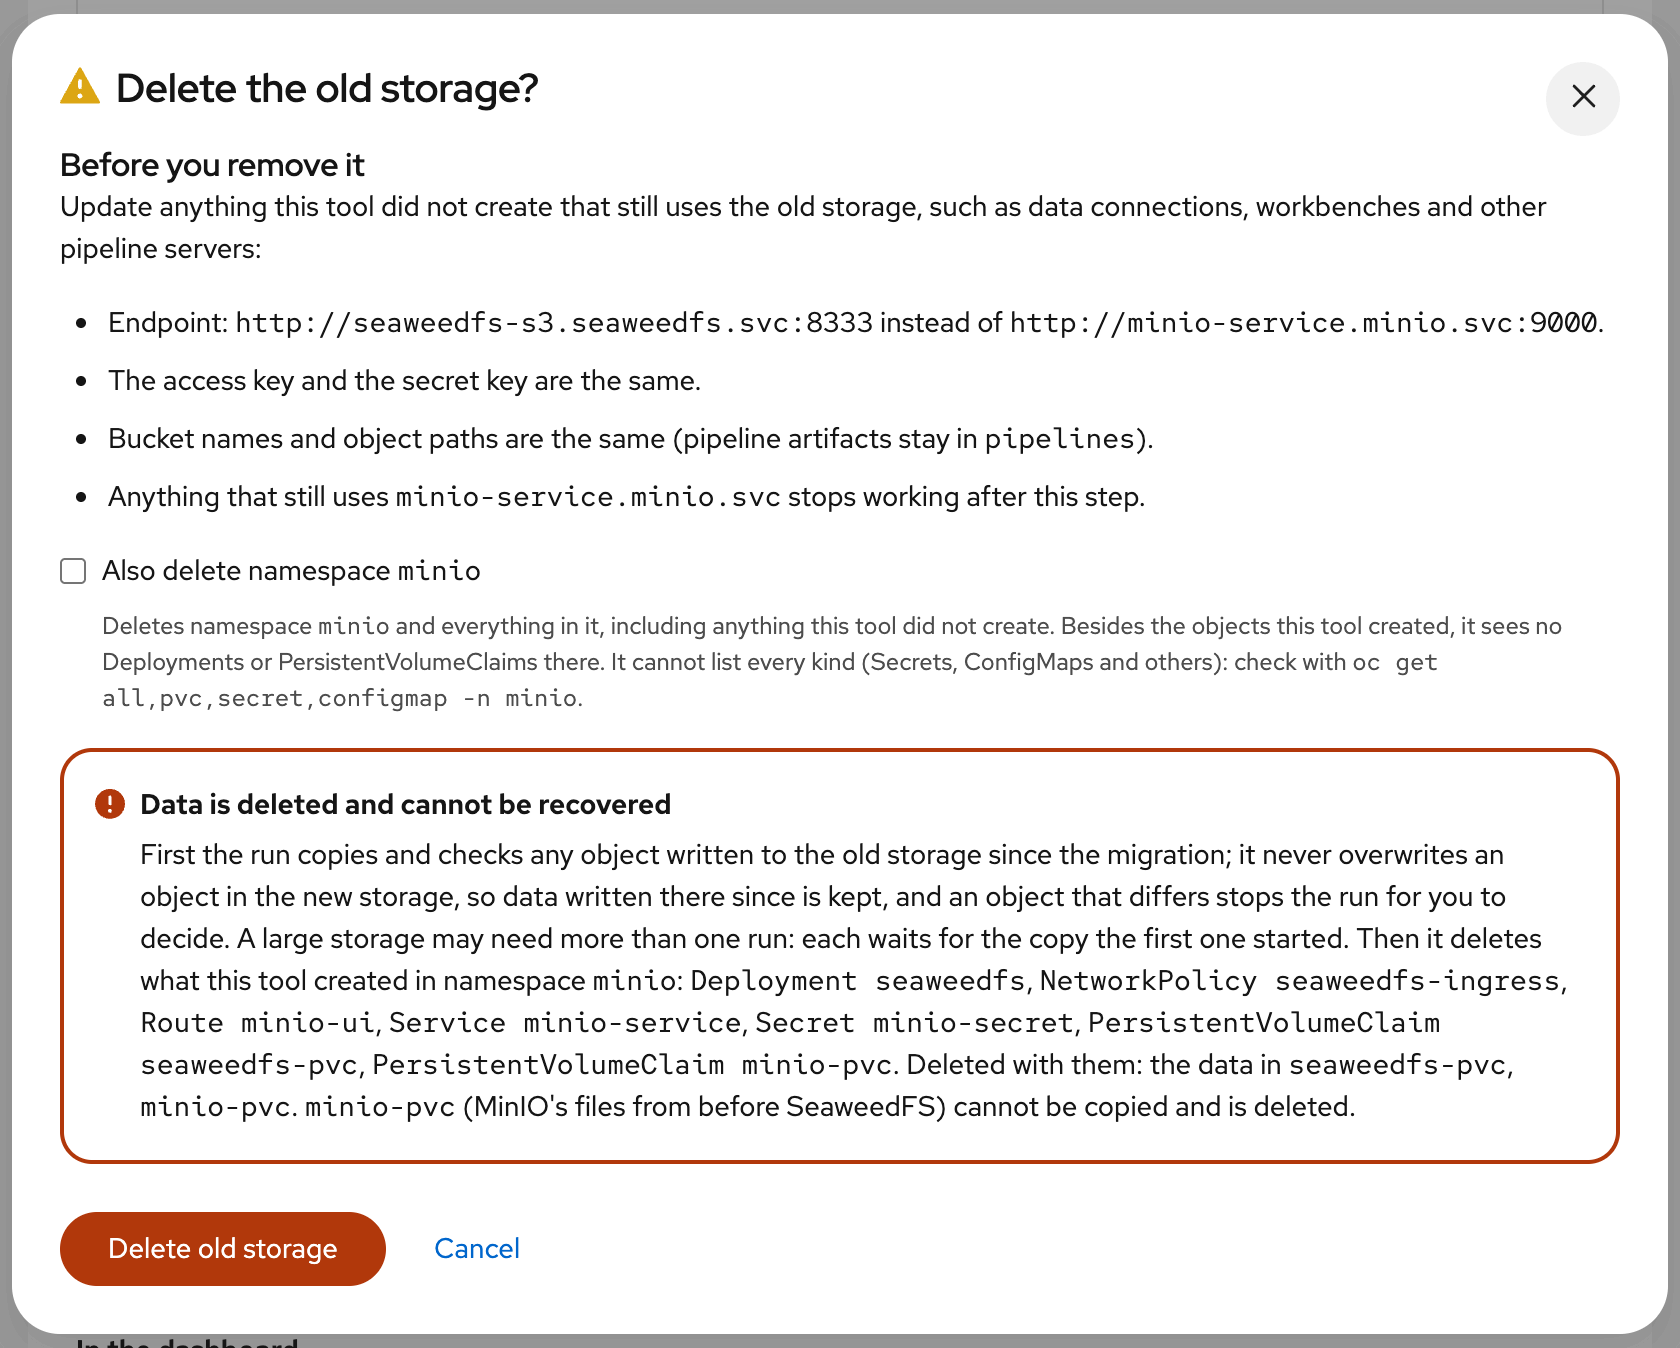
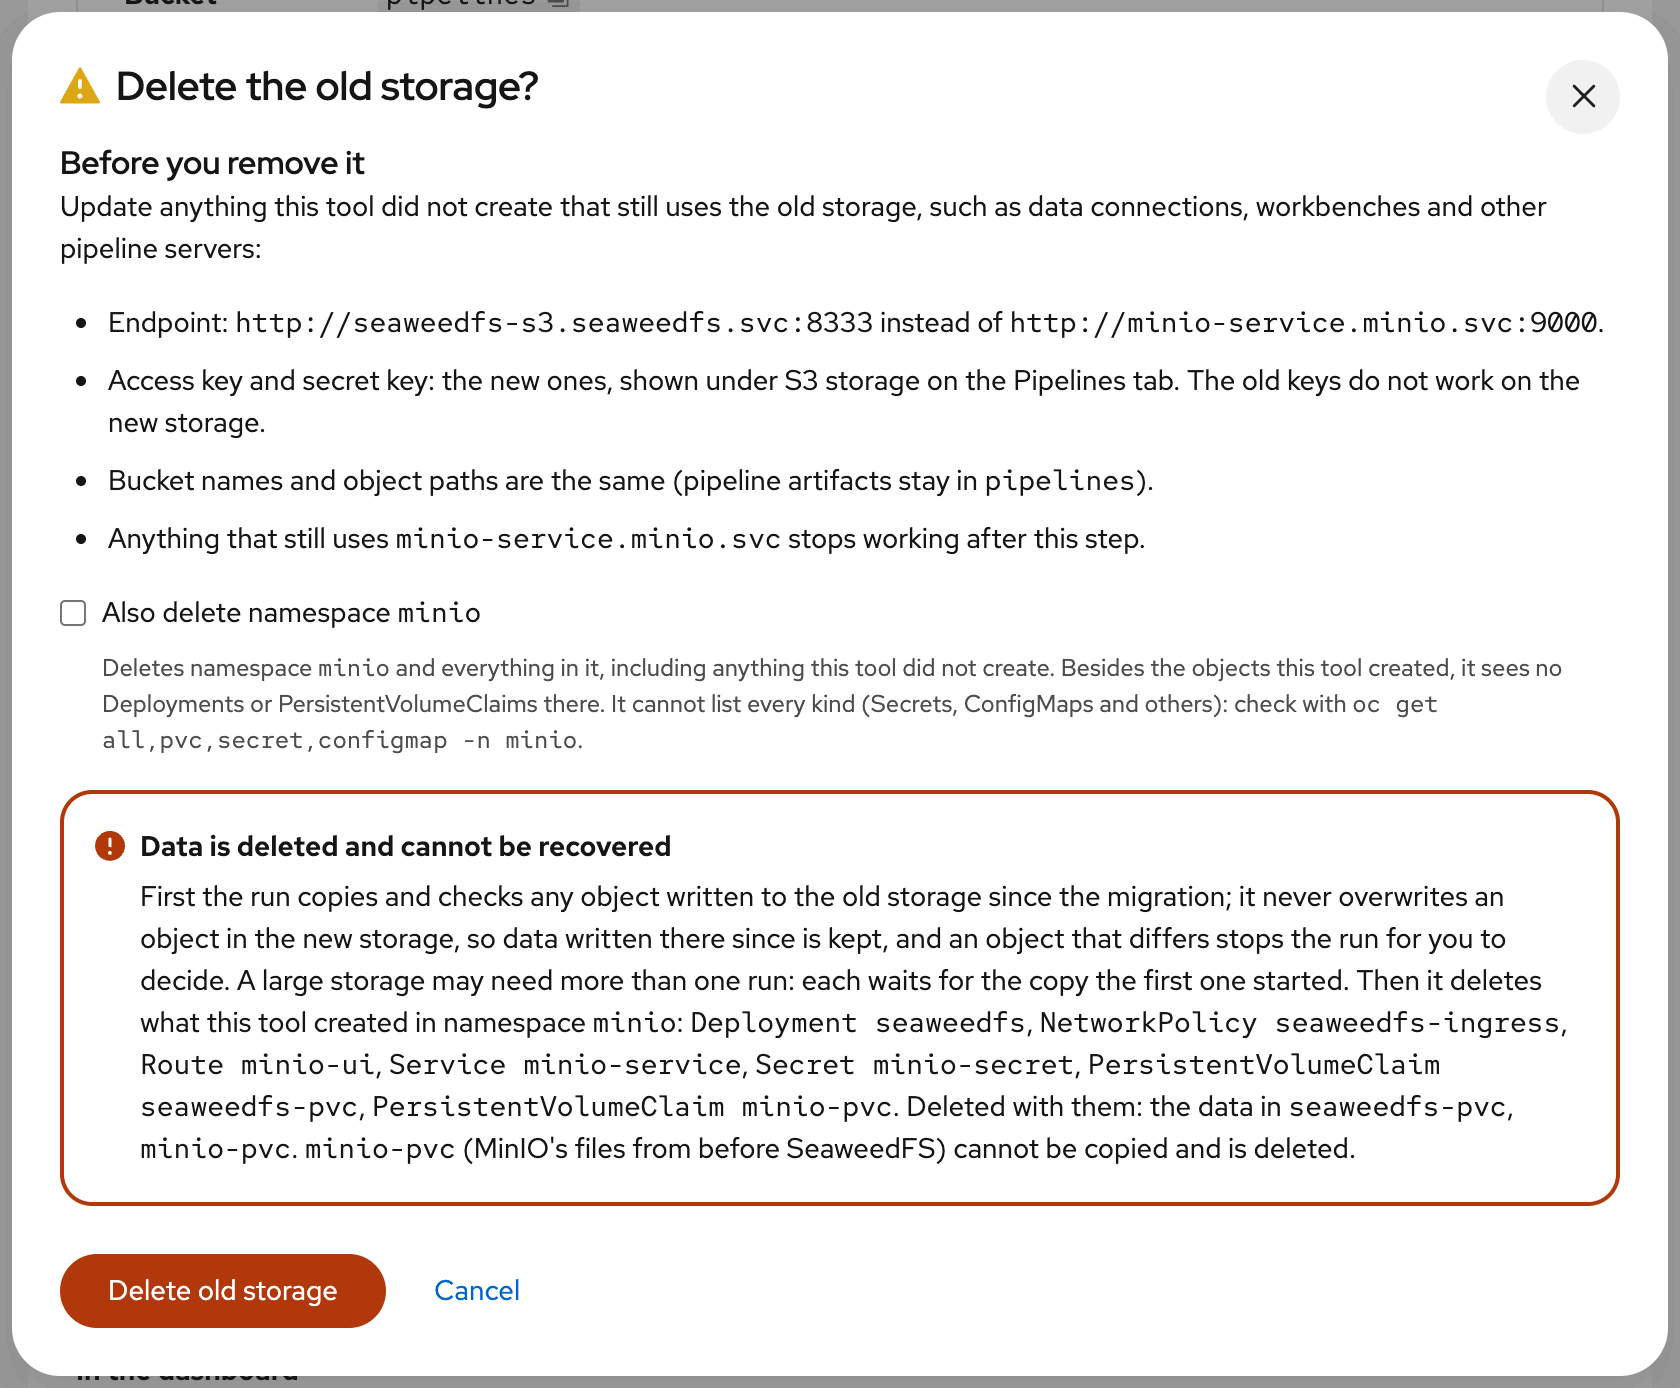
fix: Migrate storage wording says the new storage has new keys
Migrate storage gives the new storage new keys (the old keys reach only
the copy Job), but the Migrate storage and Delete old storage dialogs and
Set up's refusal while earlier storage exists said the keys stay the
same. They now say: new keys; the pipeline servers this tool set up are
moved to them; anything else that used the old keys, such as your own
S3 clients, needs the new keys, which the Pipelines tab shows. The
refusal no longer says Migrate storage removes the old storage (that is
a separate, later step). The CHANGELOG entry for Migrate storage said
the same keys too.

The migrate and remove dialog images and the migration GIF are
regenerated.

diff --git a/frontend/src/components/environment/MigrateStorageModal.tsx b/frontend/src/components/environment/MigrateStorageModal.tsx
@@ -45,11 +45,11 @@ const MigratePlan: React.FC<{ legacy: LegacyStorageState }> = ({ legacy }) => {
           {legacy.server ?? "The storage"} in namespace <code>{legacy.namespace}</code> holds the data of earlier versions of this tool. Migrate storage moves it to namespace <code>{S3_NAMESPACE}</code>:
         </Content>
         <List component="ol">
-          <ListItem>Sets up the storage in <code>{S3_NAMESPACE}</code> with the same access key and secret key.</ListItem>
+          <ListItem>Sets up the storage in <code>{S3_NAMESPACE}</code> with new keys: a new access key and secret key. The old keys do not work on it.</ListItem>
           <ListItem>Copies every bucket (empty ones too) and every object with its metadata with Job <code>seaweedfs-migrate</code>, and checks each object byte for byte and that every bucket is there. The run reports how many objects and bytes it copied; any difference stops it here, with nothing else changed. Bucket policies, versioning and lifecycle rules are not carried over: set them again on the new storage if you used them.</ListItem>
           <ListItem>
             {repoint.length > 0
-              ? <>Moves the pipeline server{repoint.length > 1 ? "s" : ""} this tool created to the new storage, one at a time, and waits until each reaches it: {codes(repoint)}.</>
+              ? <>Moves the pipeline server{repoint.length > 1 ? "s" : ""} this tool created to the new storage and its keys, one at a time, and waits until each reaches it: {codes(repoint)}.</>
               : <>No pipeline server of this tool uses the old storage, so none is moved.</>}
           </ListItem>
         </List>
@@ -69,6 +69,9 @@ const MigratePlan: React.FC<{ legacy: LegacyStorageState }> = ({ legacy }) => {
         </StackItem>
       )}
       <StackItem>
+        <Content component="p">Anything else that uses the old keys, such as your own S3 clients, needs the new ones: the S3 storage on the Pipelines tab shows them after the migration.</Content>
+      </StackItem>
+      <StackItem>
         <Content component="p">Each pipeline server it moves restarts on the new storage; the others keep running. How long the copy takes depends on how much data there is. The old storage is kept: you delete it later, from the S3 storage&apos;s menu, once nothing else uses it.</Content>
       </StackItem>
     </Stack>
@@ -87,7 +90,7 @@ const RemovePlan: React.FC<{ legacy: LegacyStorageState; deleteNamespace: boolea
         <Content component="p">Update anything this tool did not create that still uses the old storage, such as data connections, workbenches and other pipeline servers:</Content>
         <List>
           <ListItem>Endpoint: <code>{S3_ENDPOINT}</code> instead of <code>http://{legacy.endpoint}</code>.</ListItem>
-          <ListItem>The access key and the secret key are the same.</ListItem>
+          <ListItem>Access key and secret key: the new ones, shown under S3 storage on the Pipelines tab. The old keys do not work on the new storage.</ListItem>
           <ListItem>Bucket names and object paths are the same (pipeline artifacts stay in <code>pipelines</code>).</ListItem>
           <ListItem>Anything that still uses <code>{legacy.endpoint.split(":")[0]}</code> stops working after this step.</ListItem>
         </List>

diff --git a/frontend/src/components/QuickResourceOwnership.test.tsx b/frontend/src/components/QuickResourceOwnership.test.tsx
@@ -441,6 +441,26 @@ describe("storage from an earlier version", () => {
     expect(within(storage).getByText(/Migrate storage creates it, with new keys/)).toBeInTheDocument();
   });
 
+  it("the Migrate storage and Delete old storage dialogs say the keys are new and where to find them", async () => {
+    setup(live({ minio: notDeployed, legacyStorage: legacy, pipelineServers: [runningDspa] }));
+    const { unmount } = renderAt();
+    fireEvent.click(within(await part("S3 storage")).getByRole("button", { name: "Migrate storage" }));
+    const migrate = await screen.findByRole("dialog", { name: "Migrate storage" });
+    expect(migrate).toHaveTextContent("Sets up the storage in seaweedfs with new keys: a new access key and secret key. The old keys do not work on it.");
+    expect(migrate).toHaveTextContent("to the new storage and its keys");
+    expect(migrate).toHaveTextContent("Anything else that uses the old keys, such as your own S3 clients, needs the new ones: the S3 storage on the Pipelines tab shows them after the migration.");
+    expect(migrate).not.toHaveTextContent(/same (access )?key|keys are the same/);
+    unmount();
+
+    const removable: LegacyStorageState = { ...legacy, stage: "remove", repoint: [], notMoved: [], usedBy: [], namespaceDeletable: true, namespaceKeptReason: undefined };
+    setup(live({ minio: { ...readyMinio, migrationPending: true }, legacyStorage: removable, pipelineServers: [] }));
+    renderAt("/test-resources?tab=pipelines&project=fresh");
+    fireEvent.click((await menuItem("S3 storage", /Delete old storage/))!);
+    const remove = await screen.findByRole("dialog", { name: /Delete the old storage\?/ });
+    expect(remove).toHaveTextContent("Access key and secret key: the new ones, shown under S3 storage on the Pipelines tab. The old keys do not work on the new storage.");
+    expect(remove).not.toHaveTextContent(/same (access )?key|keys are the same/);
+  });
+
   it("reads Needs attention with Migrate storage, and names the old objects only in its collapsed section", async () => {
     setup(live({ minio: notDeployed, legacyStorage: legacy, pipelineServers: [runningDspa] }));
     renderAt();

diff --git a/pkg/cluster/s3_storage_test.go b/pkg/cluster/s3_storage_test.go
@@ -306,6 +306,30 @@ func TestSetupS3Storage_RefusesNamespaceItDidNotCreate(t *testing.T) {
 	}
 }
 
+// While an earlier version's storage exists, Set up refuses and points to
+// Migrate storage. That gives the new storage new keys (the old ones reach
+// only the copy Job), so the message must say so and where to find them.
+func TestSetupS3Storage_RefusesWhileEarlierStorageExistsAndSaysTheKeysAreNew(t *testing.T) {
+	fastS3Timings(t)
+	f, c := newResourceFake(t)
+	putLegacySeaweedFS(f)
+	resp, _ := SetupS3Storage(c)
+	if resp.Success || resp.ErrorCode != "prerequisites" || !strings.Contains(resp.Message, "Use Migrate storage") {
+		t.Fatalf("setup = %+v", resp)
+	}
+	for _, want := range []string{"with new keys", "moves the pipeline servers this tool set up to the new storage and its keys", "Anything else that uses the old keys", "the new keys from the Pipelines tab", "Nothing was changed"} {
+		if !strings.Contains(resp.Message, want) {
+			t.Errorf("message lacks %q: %s", want, resp.Message)
+		}
+	}
+	if strings.Contains(resp.Message, "same keys") || strings.Contains(resp.Message, "then removes the old storage") {
+		t.Errorf("message says the keys stay or that the old storage is removed: %s", resp.Message)
+	}
+	if m := f.mutations(); len(m) != 0 {
+		t.Errorf("refusal wrote %v", m)
+	}
+}
+
 func TestSetupS3Storage_TerminatingNamespace(t *testing.T) {
 	fastS3Timings(t)
 	f, c := newResourceFake(t)

diff --git a/pkg/cluster/s3_storage.go b/pkg/cluster/s3_storage.go
@@ -1068,7 +1068,7 @@ func legacyStorageSetupBlock(l *legacyStorage) string {
 	if l == nil {
 		return ""
 	}
-	return fmt.Sprintf("Storage from an earlier version of this tool is still in namespace '%s'. Use Migrate storage: it sets up the storage in namespace '%s' with the same keys, copies every object, moves the pipeline servers and then removes the old storage.", legacyNamespace, s3Namespace)
+	return fmt.Sprintf("Storage from an earlier version of this tool is still in namespace '%s'. Use Migrate storage: it sets up the storage in namespace '%s' with new keys, copies every object and moves the pipeline servers this tool set up to the new storage and its keys. Anything else that uses the old keys, such as your own S3 clients, then needs the new keys from the Pipelines tab.", legacyNamespace, s3Namespace)
 }
 
 // SetupS3Storage deploys the S3 storage (SeaweedFS) with a bucket for

diff --git a/CHANGELOG.md b/CHANGELOG.md
@@ -232,10 +232,12 @@ only accepts a tag whose version is the top dated section. See
   read.
 - **Migrate storage** moves the storage an earlier version set up in
   namespace `minio` (MinIO, or SeaweedFS behind the MinIO-era names) to
-  namespace `seaweedfs`, with its data: it sets up the new storage with the
-  same keys, copies every bucket and object with an rclone Job and checks
+  namespace `seaweedfs`, with its data: it sets up the new storage with new
+  keys, copies every bucket and object with an rclone Job and checks
   each byte (any difference stops it), and moves the pipeline servers this
-  tool created, waiting until each reaches the new storage. The old
+  tool created to the new storage and its keys, waiting until each reaches
+  it. Anything else that used the old keys needs the new ones, which the
+  Pipelines tab shows. The old
   storage is removed only in a separate, confirmed last step, after a
   checklist for references the tool did not create; deleting namespace
   `minio` (and everything in it) is a separate, unticked choice, offered
